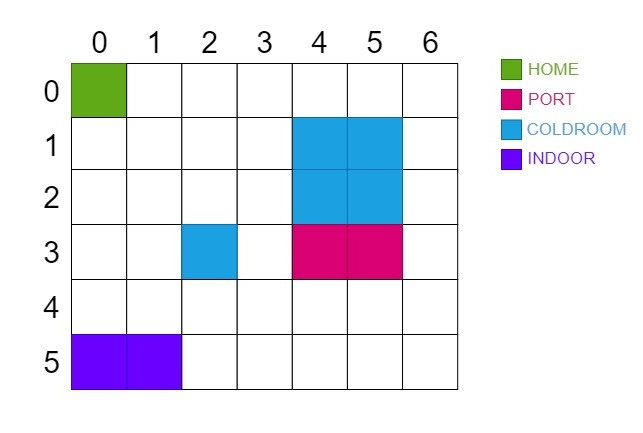
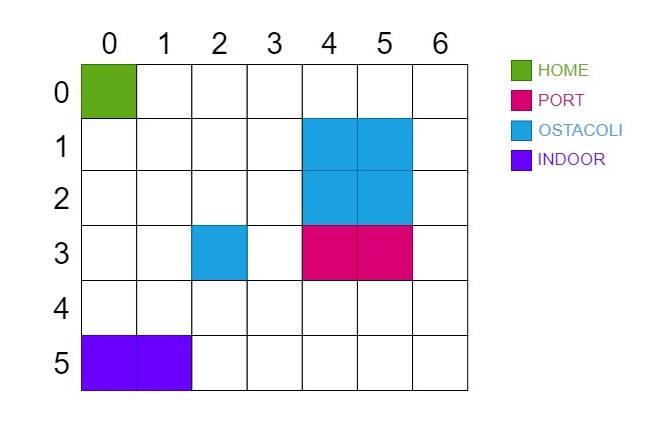
Sprint1: analisi problema al 95%

diff --git a/ColdStorageServiceSprint1.html b/ColdStorageServiceSprint1.html
@@ -480,6 +480,10 @@
                     <td>Tempo espresso in millisecondi che identifica l'intervallo minimo che può intercorrere tra due
                         stop consecutivi del <u>Transport Trolley</u>.</td>
                 </tr>
+                <tr>
+                    <td>Posizioni speciali</td>
+                    <td>Posizioni sulla <u>Service Area</u> che identificano: la <u>INDOOR</u>,la <u>HOME</u> e la <u>PORT</u></td>
+                </tr>
             </tbody>
         </table>
         <br>
@@ -601,7 +605,9 @@
             <h2>Analisi del Problema</h2>
 
 
-            Esplorando il core-business si possono delineare 2 principali problematiche con le annesse considerazioni ed osservazioni:
+            Esplorando il core-business si possono delineare 2 principali problematiche con le annesse considerazioni ed osservazioni. Ciò va a confermare quanto detto 
+            nello Sprit0 e quindi ad adottare due attori diversi <b>TransportTrolley</b> e <b>ColdStorageService</b>, ognuno che si occupa di uno dei 2 punti cruciali 
+            rilevati:
             <ul>
                 <li><b>Gestione del movimento per effettuare il carico/scarico da parte del Transport Trolley</b></li>
                 <ul>
@@ -617,29 +623,93 @@
                     <center>
                         <img src="./ServiceArea23Griglia.jpg" alt="service area"><br>
                     </center>
-                    <br>file:///C:/Users/kossk/OneDrive/Documents/GitHub/issLab23/iss23Material/html/BasicRobot23.html#uso-del-planner
+                    <b>C'E' ANCHE LA RIGA 5??????????????????''</b>
+                    <br>
                     Siccome la mappa del nostro progetto coincide con quella de <b>BasicRobot23</b>(<a href='BasicRobot23.html#uso-del-planner'>link</a>) la mappatura della 
-                    stanza xxxxxxxxxxxxxxxxxxxxxxxxxxxxxxxxxxxxxxxxxxxxxxxxxxxx
+                    stanza la conosciamo a priori. In particolare vengono evidenziate quelle che sono le posizioni speciali(<b>HOME,PORT,INDOOR</b>). Per la <b>HOME</b> si è scelto
+                    la cella nell'origine, mentre <b>PORT</b> ed <b>INDOOR</b> le celle adiacenti alla porzione di parete che le definiscono.[Sollevo un problema:la griglia combacia 
+                    esattamente con la mappa? oppure ci sono degli scarti?? Siccome le celle hanno dimensione del robot(ma la dimensione combacia con il BasicRobot23?)]<br>
+                    Anche se alcuni ostacoli non coincidono esattamente di dimensioni alla cella corrispondente,quindi sono di dimensioni inferiori, è conveniente dedicare l'intera 
+                    cella a tale ostacolo per rimanere coerenti con il modello di mappatura della <b>Service Area</b>. Questo è un compromesso più che valido ai nostro scopi perché
+                    il robot non ha requisiti di precisione stringenti.
+                    </li>
+                    <li>Per quanto riguarda i movimenti: il <b>Planner</b> offerto da <b>BasicRobot23</b> offre le funzionalità?->se semplicemente calcola il percorso senza
+                    badare ad ostacoli allora sarà sufficiente scartare le proposte di percorsi che contengono una cella occupata da un ostacolo</li>
+                    <li>Siccome le posizioni speciali <b>PORT</b> ed <b>INDOOR</b> sono più ampie di una cella, per considerare valido il punto di scarico o carico sarà sufficiente
+                    posizionare il <b>Transport Trolley</b> in una qualsiasi delle celle che identificano tale posizione speciale. Siccome però siamo noi a specificare in quali 
+                    coordinate posizionare il <b>Transport Trolley</b> bisogna capire in quale delle molteplici celle della posizione speciale vogliamo che il <b>Transport Trolley</b>
+                    si posizioni. Conoscendo già a priori i tragitti che il <b>Transport Trolley</b> può fare possiamo decidere in base alla coppia partenza-destinazione 
+                    in quale delle celle valide mandare il robot:
+                    <ul>
+                        <li>HOME-INDOOR -> cella di destinazione: (5,0)</li>
+                        <li>INDOOR-PORT -> cella di destinazione: (3,4)</li>
+                        <li>PORT-INDOOR -> cella di destinazione: (5,1)</li>
+                        <li>PORT-HOME -> unica cella di destinazione possibile: (0,0)</li>
+                        <li>???-INDOOR -> se mentre sta arrivando in <b>HOME</b> viene richiesto al <b>Transport Trolley</b> di dirigersi immediatamente alla 
+                            <b>INDOOR</b> la cella di destinazione sarà: (5,1)</li>
+                    </ul>
+                
                     </li>
                 </ul>
 
-                <li><b>Gestione dei meccanismi di gestione delle richieste in arrivo</b></li>
+                <li><b>Controllo dei meccanismi di gestione delle richieste in arrivo</b></li>
                 <ul>
-
+                    <li>Rappresentazione del <b>Ticket</b> come POJO di esclusività del <b>ColdStorageService</b>. Per praticità sarebbe conveniente erogare i 
+                    <b>Ticket</b> come numero derivato dal timestamp corrispondente al momento di erogazione, in questa maniera si genera un identificativo univoco ed 
+                    espressivo. Il <b>ColdStorageService</b> sarà l'unico componente cosciente dei <b>Ticket</b>, quindi tutti quelli che vogliono trarne delle Informazioni
+                    devono riferirsi a lui.</li>
+                    <li>Per La scadenza del <b>Ticket</b> sarà <b>ColdStorageService</b>, dato che è lui il responsabile, a gestirla. In particolare si suggerisce di verificare
+                    se vi sono presenti <b>Ticket</b> scaduti all'arrivo di una nuova richiesta di storage o all'inserimento del <b>Ticket</b> stesso. Seguendo questa strategia non si deve mantenere un demone(processo 
+                    perennemente attivo) che funga da timer, comportando ad uno spreco di risorse. Bensì la validità dei <b>Ticket</b> viene verificata solo quando tale informazione 
+                    potrebbe influenzare l'accettazione dei <b>Fridge Truck</b> successivi.</li>
+                    <li>Essendo il <b>Transport Trolley</b> l'entità che si occupa di muovere il robot e che quindi è a conoscienza del metodo di rappresentazione a 
+                    coordinate della <b>Service Area</b> sarebbe bene che questa rappresentazione venga astratta al <b>ColdStorageService</b>, che si occuperà solo 
+                    di gestire le richieste e comandare il <b>Transport Trolley</b> in modo molto di alto livello. Per essere più chiari ci si aspetta che il <b>ColdStorageService</b>
+                     sia in grado di comunicare al <b>Transport Trolley</b> di:
+                    <ul>
+                        <li>Andare in <b>INDOOR</b> per soddifare la richiesta di un <b>Fridge Truck</b></li>
+                        <li>Andare in <b>HOME</b> perché non ci sono <b>Fridge Truck</b> da servire</li>
+                    </ul>
+                    Senza quindi esplicitare le coordinate, siccome lui non conosce il concetto di griglia a coordinate.<br>
+                    Si noti che <b>ColdStorageService</b> non possiede il comado <u>Andare in <b>PORT</b></u>, questo è dovuto al fatto che il <b>ColdStorageService</b>
+                    comunica al <b>Transport Trolley</b> che deve servire un <b>Fridge Truck</b>, ciò da per scontato che i viaggi saranno due:
+                    <ul>
+                        <li>Da dove si trova alla <b>INDOOR</b> per caricare gli alimenti</li>
+                        <li>Dalla <b>INDOOR</b> alla <b>PORT</b></li>
+                    </ul>
+                    
+                    Ricordiamo che per il momento 
+                    il committente vuole un servizio che rifiuti i <b>Fridge Truck</b> che richiedano uno scarico di alimenti che supera la portata 
+                    massima del <b>Transport Trolley</b>. Quindi quando il <b>ColdStorageService</b> ordina al <b>Transport Trolley</b> di caricare/scaricare 
+                    un carico glielo ordina senza passarli alcun parametro, con le condizioni attuali dei requisiti non vi sono informazioni utili che il <b>Transport Trolley</b>
+                    potrebbe utilizzare durante il suo lavoro. Questo andrebbe contraddetto nel caso il sistema accettasse carichi da parte dei <b>Fridge truck</b> che 
+                    superano la portata massima del robot, obbligandolo ad effettuare più giri per la medesima richiesta. In questo caso infatti bisognerebbe avere
+                    l'accortezza di comunicare al <b>Transport Trolley</b> il peso totale di carico da trasportare, in maniera tale da essere in grado di partizionarlo su 
+                    più giri dalla <b>INDOOR</b> alla <b>HOME</b>. Il Committente ha richiesto una <u>analisi dei costi</u> per valutare successivamente se supportare anche questa
+                    casistica.<br>
+                    Analisi costi:
+                    <ul>
+                        <li>A livello di complessità di realizzazione il carico di lavoro sarebbe scaricato sul <b>Transport Trolley</b>, con una difficoltà media 
+                        nella sua implementazione</li>
+                        <li>A livello di business significherebbe che meno <b>Fridge Truck</b> verrebero serviti in una unità di tempo.<br>
+                        Esempio pratico: se un <b>Fridge Truck</b> richiede 3 giri significa che dovrà fare 4 tratte in più rispetto ad un carico singolo.<br>
+                        Quindi se tutti i <b>Fridge Truck</b> portano allo stesso guadagno indipendentemente dal peso del carico questa valutazione
+                        di gestire carichi superiori alla capacità massima del <b>Transport Trolley</b> sarebbe da evitare</li>
+                    </ul>
+                    </li>
+                    <li>Se un conducente di un <b>Fridge Truck</b> inserisce erroneamente il <b>Ticket</b> sarebbe necessario comunicare all'interessato che il <b>Ticket</b> inserito 
+                    non è corretto, distinguendo il messaggio di risposta <u>Ticket scaduto</u> da <u>Ticket inserito non valido</u>(inteso come "Ticket inserito non corrisponde a nessun 
+                    Ticket presente nel servizio", quindi si deduce che il conducente abbia sbagliato durante l'inserimento) all'inserimento del <b>Ticket</b>.s</li>
                 </ul>
+                Per quanto riguarda le interazioni?Qualcosa da specificare? fai tabelle dei messaggi
             </ul>
-            -gestire movimento TT (abbiamo <a href='BasicRobot23.html'>BasicRobot23</a>)
-                -comandarlo nudo e crudo, giusto erp essere padroni del TT
-            -gestire politica di accettazione
-                -solleva tutti probelmi di logica e modellazione degli scenari
-                -come rappresentare ticket
-
 
 
 
 
 
             <h5>Considerazioni</h5>
+            <s>
             <ul>
                 <li> In fase di analisi si è affrontata la problematica relativa alla concomitanza di richieste da parte
                     di Fridge Truck diversi,
@@ -681,6 +751,7 @@
                     Questa scelta in ultima istanza dovrà essere confermata dal Committente.
                 </li>
             </ul>
+            </s>
             <div class="remark">
                 Codice QAK per la modellazione del sistema: <a
                     href="./sprint0.coldstorageservice/src/ColdStorageService.qak"
